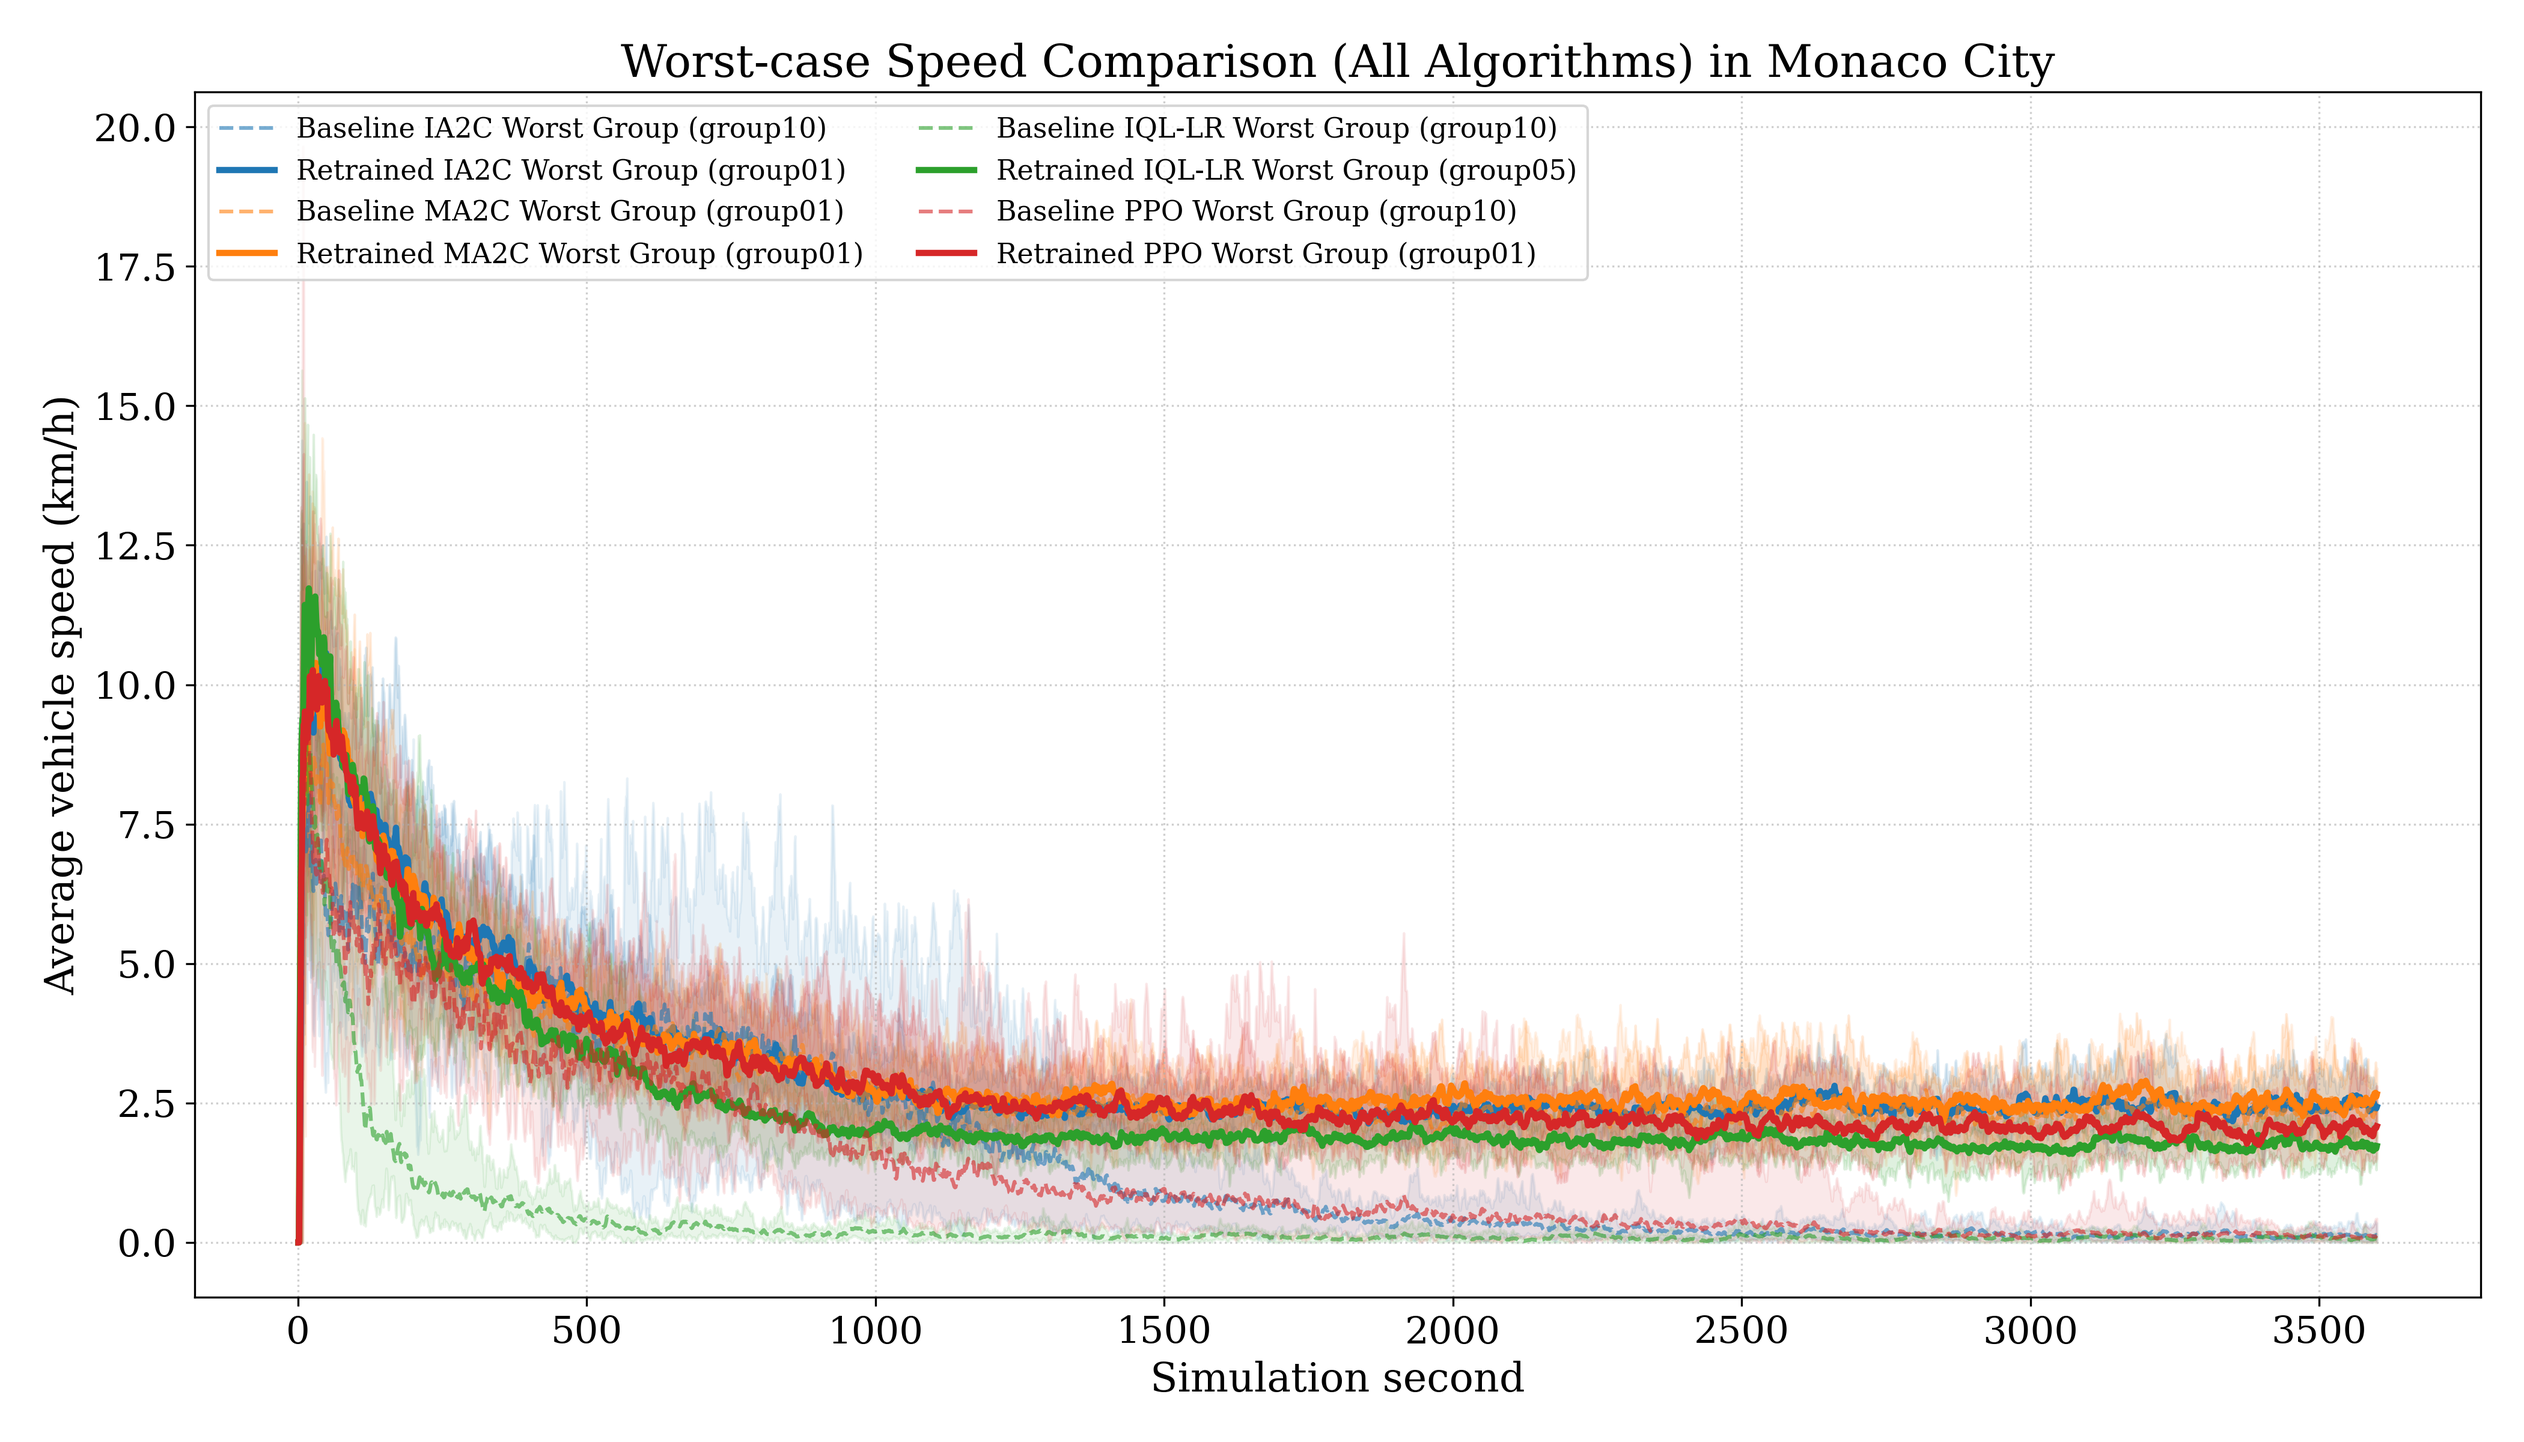
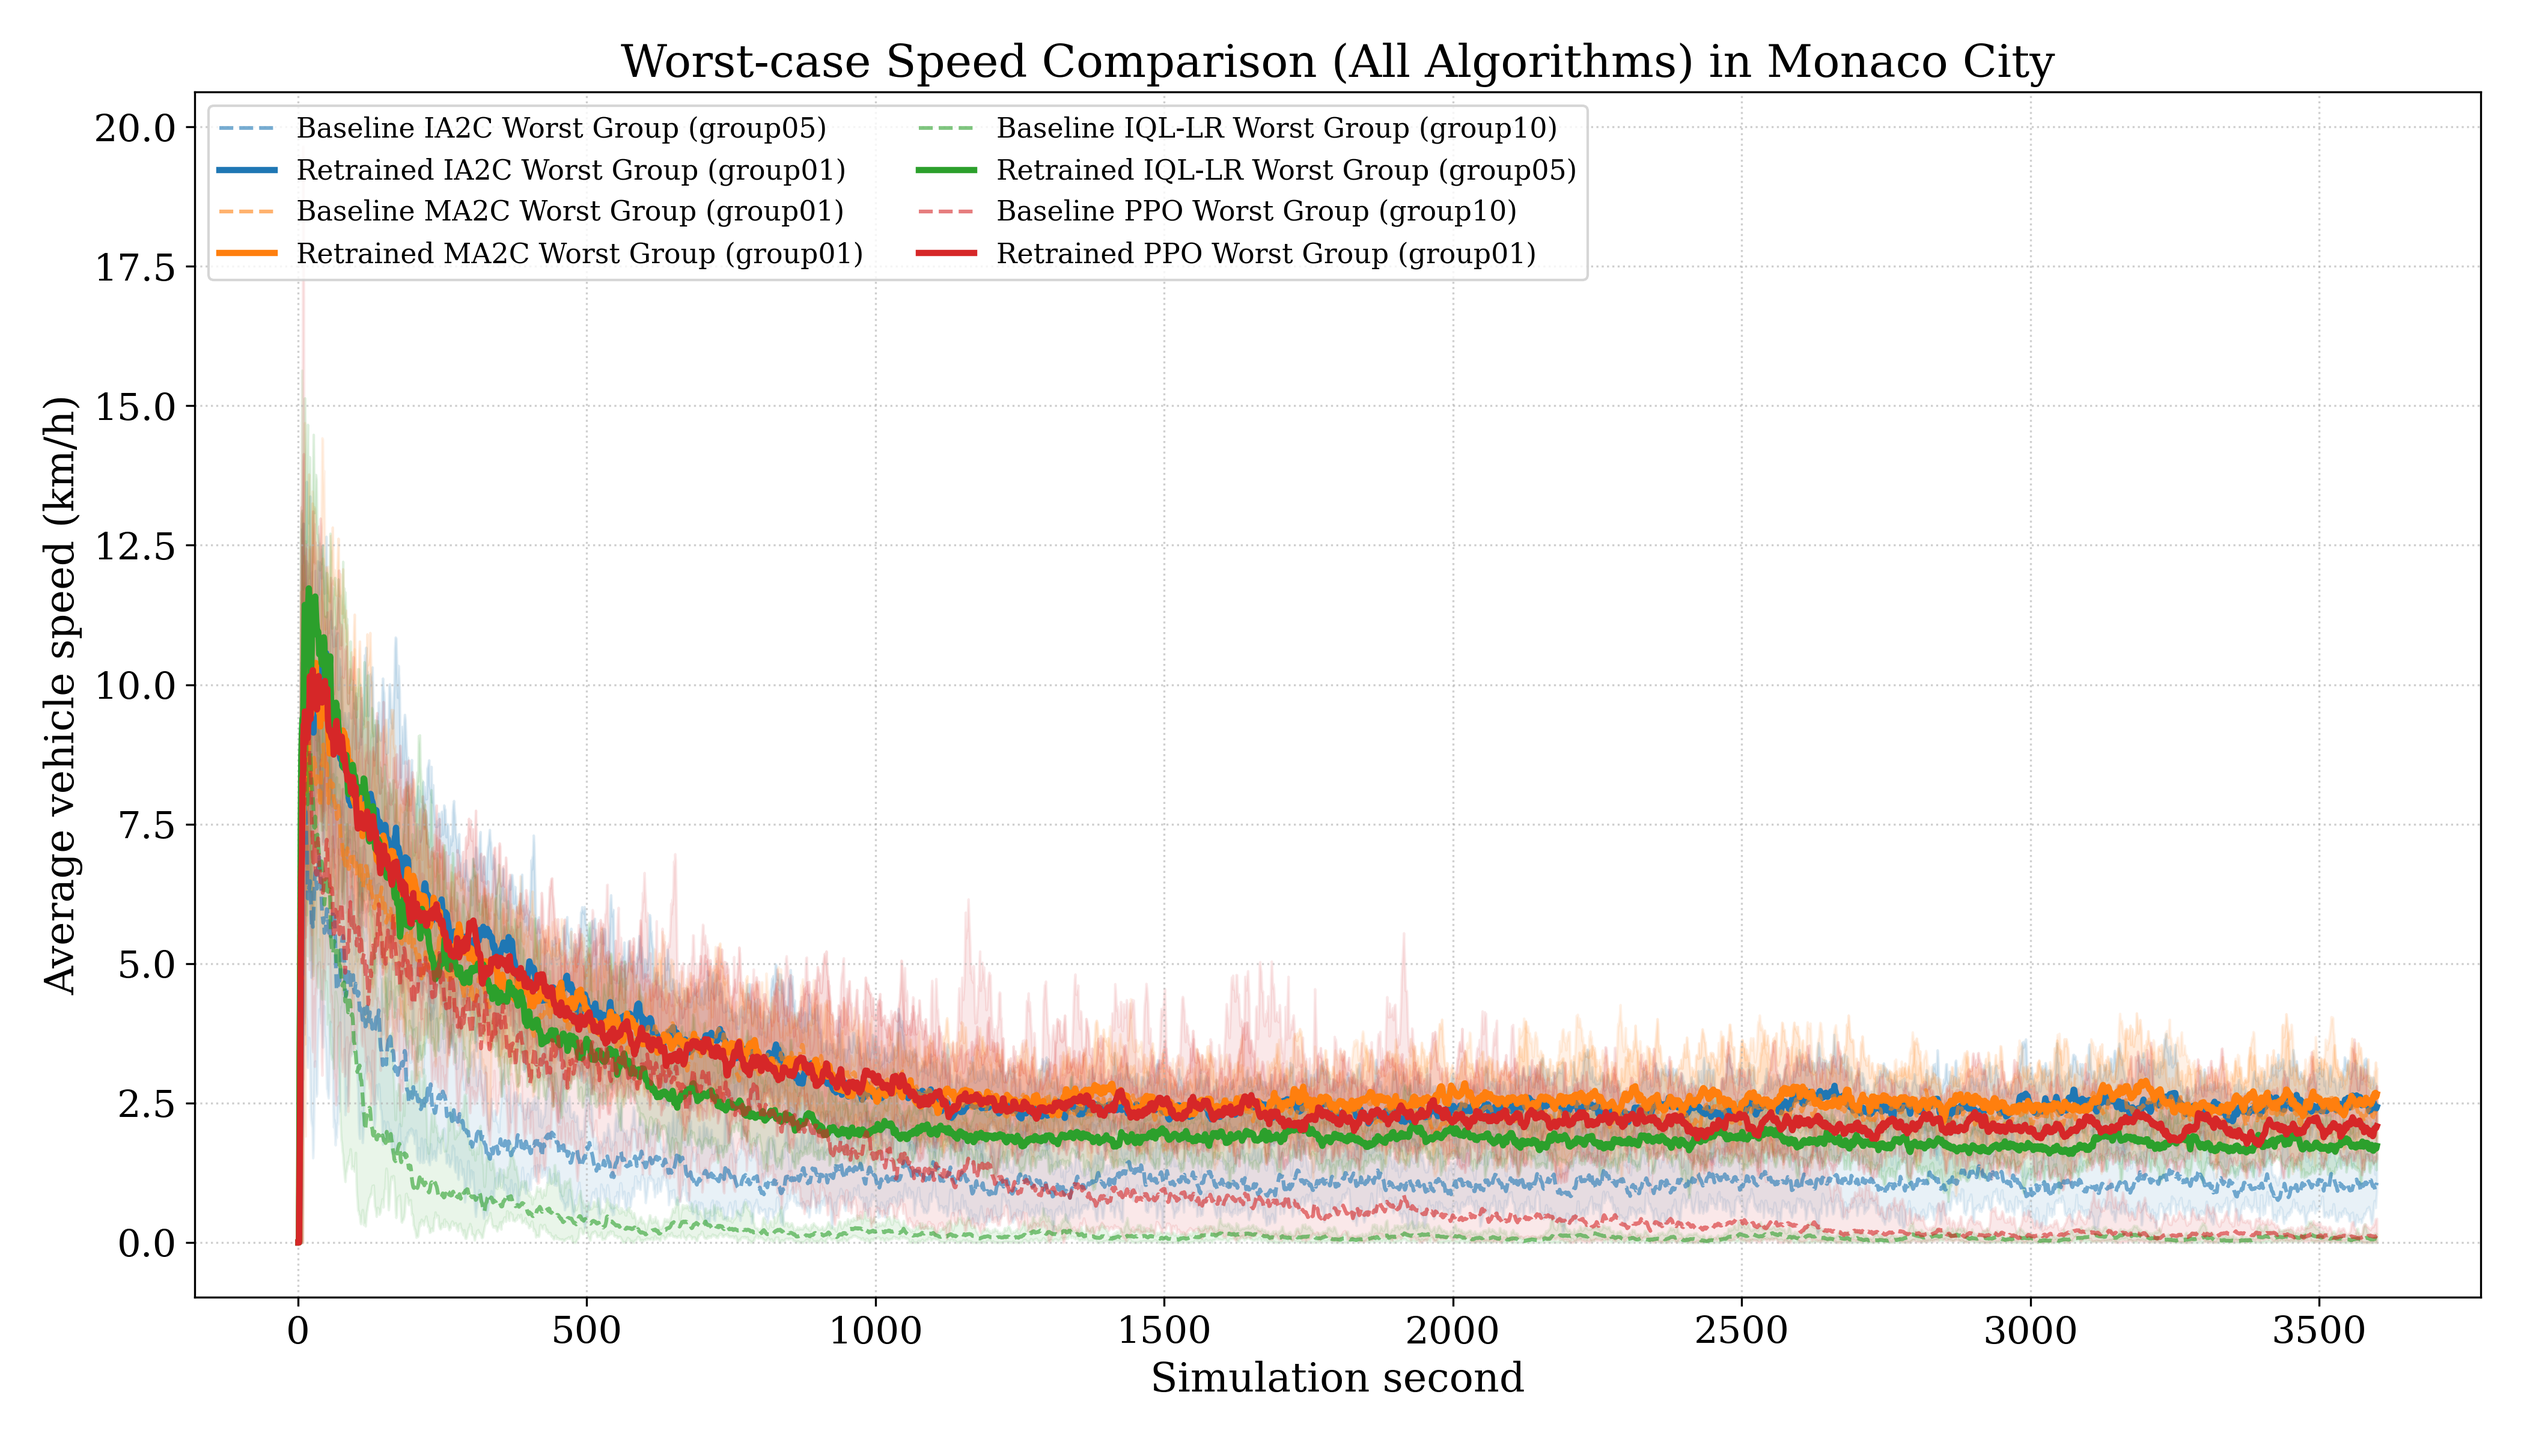
change worst speed group basic for monaco

diff --git a/Multi_plot.py b/Multi_plot.py
@@ -94,7 +94,7 @@ PLOT_CONFIGS = [
         "plot_title": "Average Speed",
         "y_label": "Average vehicle speed (km/h)",
         "data_pairs": [
-            {"algo_name": "IA2C", "baseline_csv": "signal_controller_benchmark_real/ia2c_real_group10_uniform_speed_raw.csv", "retrained_csv": "signal_controller_benchmark_real/ia2c_retrained_group01_s_to_n_speed_raw.csv", "color": "#1f77b4"},
+            {"algo_name": "IA2C", "baseline_csv": "signal_controller_benchmark_real/ia2c_real_group05_se_to_nw_speed_raw.csv", "retrained_csv": "signal_controller_benchmark_real/ia2c_retrained_group01_s_to_n_speed_raw.csv", "color": "#1f77b4"},
             {"algo_name": "MA2C", "baseline_csv": "signal_controller_benchmark_real/ma2c_real_group01_s_to_n_speed_raw.csv", "retrained_csv": "signal_controller_benchmark_real/ma2c_retrained_group01_s_to_n_speed_raw.csv", "color": "#ff7f0e"},
             {"algo_name": "IQL-LR", "baseline_csv": "signal_controller_benchmark_real/iqll_real_group10_uniform_speed_raw.csv", "retrained_csv": "signal_controller_benchmark_real/iqll_retrained_group05_se_to_nw_speed_raw.csv", "color": "#2ca02c"},
             {"algo_name": "PPO", "baseline_csv": "signal_controller_benchmark_real/ppo_real_group10_uniform_speed_raw.csv", "retrained_csv": "signal_controller_benchmark_real/ppo_retrained_group01_s_to_n_speed_raw.csv", "color": "#d62728"}

diff --git a/plot_manual_eval_comparison_real_combined_label.py b/plot_manual_eval_comparison_real_combined_label.py
@@ -124,7 +124,7 @@ PLOT_CONFIGS = [
         "data_pairs": [
             {
                 "algo_name": "IA2C",
-                "baseline_csv": "signal_controller_benchmark_real/ia2c_real_group10_uniform_speed_raw.csv",
+                "baseline_csv": "signal_controller_benchmark_real/ia2c_real_group05_se_to_nw_speed_raw.csv",
                 "retrained_csv": "signal_controller_benchmark_real/ia2c_retrained_group01_s_to_n_speed_raw.csv",
                 "color": "#1f77b4"
             },
